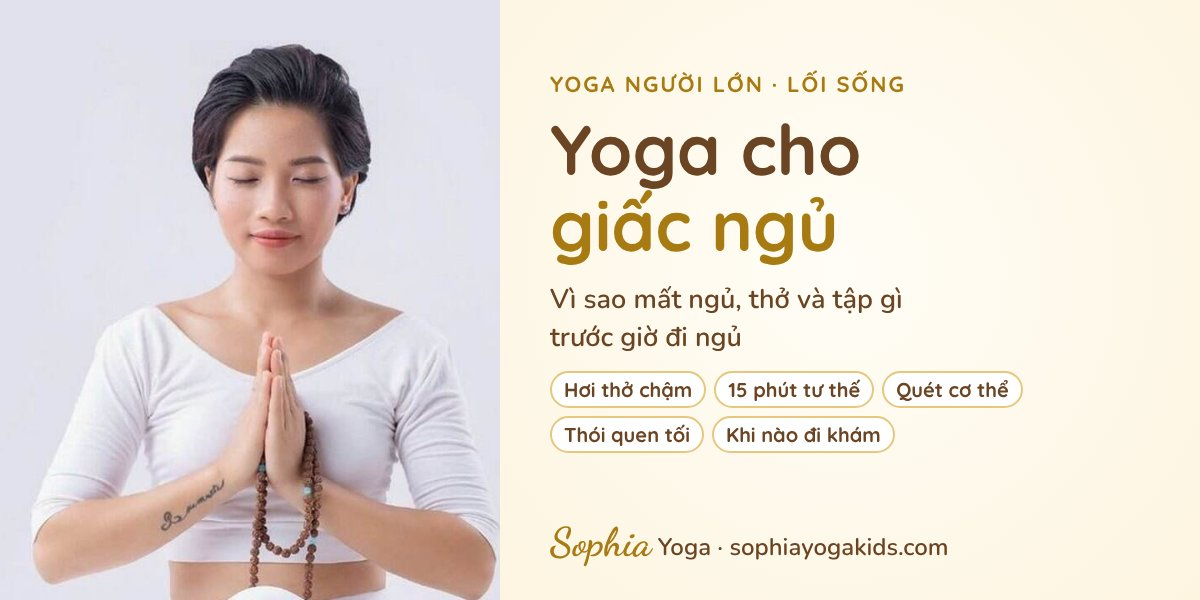
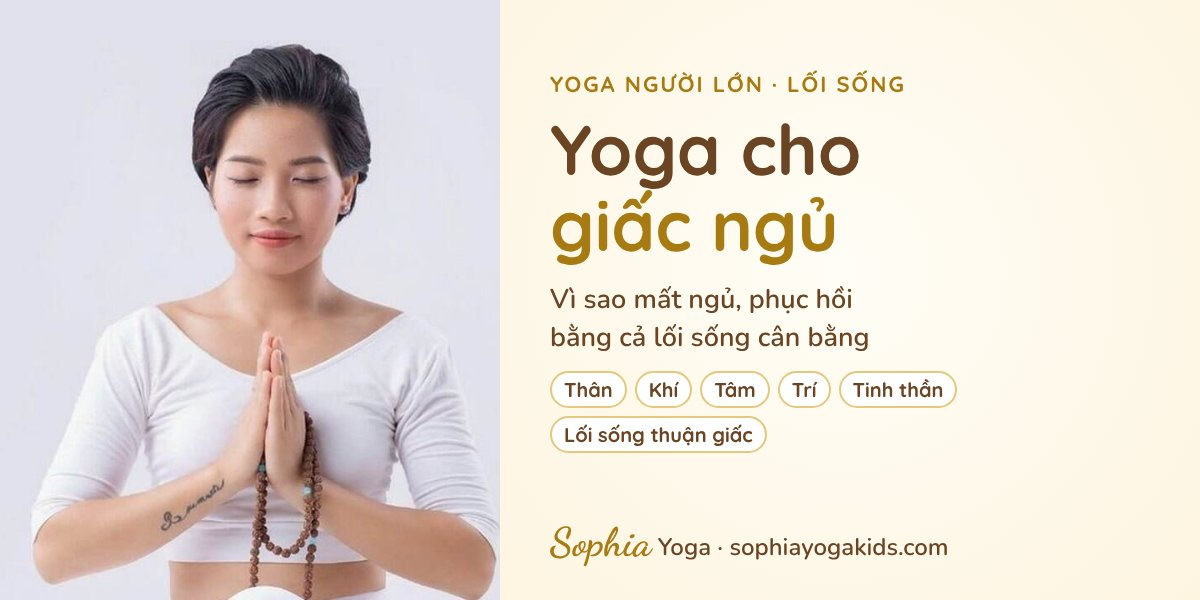
Bài giấc ngủ: phục hồi trên cả năm thể, lối sống trước tư thế
Claude-Session: https://claude.ai/code/session_01UYnZtgAMgetqcUqp8ZW1HP

Changed region(s): [[0.4625, 0.48, 0.8633, 0.78]]

diff --git a/yoga-giac-ngu/index.html b/yoga-giac-ngu/index.html
@@ -4,12 +4,12 @@
   <meta charset="UTF-8">
   <meta name="viewport" content="width=device-width, initial-scale=1.0">
   <title>Yoga cho giấc ngủ: vì sao mất ngủ, hơi thở và tư thế buổi tối, thói quen trước giờ ngủ | Sophia Yoga</title>
-  <meta name="description" content="Vì sao nằm mãi không ngủ được, hay tỉnh giữa đêm. Hơi thở chậm, chuỗi 15 phút tư thế buổi tối, thư giãn quét cơ thể, thói quen trước giờ ngủ có nghiên cứu khoa học đi kèm, và khi nào nên gặp bác sĩ.">
+  <meta name="description" content="Vì sao nằm mãi không ngủ được, hay tỉnh giữa đêm. Phục hồi giấc ngủ bằng cách đổi lối sống trên cả năm thể: thân, khí, tâm, trí, tinh thần. Hơi thở chậm, một ngày thuận giấc, chuỗi tư thế buổi tối, thư giãn quét cơ thể, và khi nào nên gặp bác sĩ.">
   <link rel="canonical" href="https://sophiayogakids.com/yoga-giac-ngu/">
   <meta property="og:type" content="article">
   <meta property="og:url" content="https://sophiayogakids.com/yoga-giac-ngu/">
   <meta property="og:title" content="Yoga cho giấc ngủ: vì sao mất ngủ, hơi thở và tư thế buổi tối, thói quen trước giờ ngủ | Sophia Yoga">
-  <meta property="og:description" content="Vì sao nằm mãi không ngủ được, hay tỉnh giữa đêm. Hơi thở chậm, chuỗi 15 phút tư thế buổi tối, thư giãn quét cơ thể, thói quen trước giờ ngủ có nghiên cứu khoa học đi kèm, và khi nào nên gặp bác sĩ.">
+  <meta property="og:description" content="Vì sao nằm mãi không ngủ được, hay tỉnh giữa đêm. Phục hồi giấc ngủ bằng cách đổi lối sống trên cả năm thể: thân, khí, tâm, trí, tinh thần. Hơi thở chậm, một ngày thuận giấc, chuỗi tư thế buổi tối, thư giãn quét cơ thể, và khi nào nên gặp bác sĩ.">
   <meta property="og:image" content="https://sophiayogakids.com/images/bai-yoga-giac-ngu.jpg">
   <meta property="og:image:width" content="1200">
   <meta property="og:image:height" content="600">
@@ -36,6 +36,10 @@
 .gn-cause h3 { margin: 0 0 4px; font-size: 1.08rem; color: #6b4423; }
 .gn-cause p { margin: 4px 0; font-size: .97rem !important; }
 .gn-cause .em { font-size: 1.7rem; line-height: 1; }
+.gn-five { display: grid; grid-template-columns: repeat(5, 1fr); gap: 10px; margin: 14px 0; }
+.gn-five div { background: #fff; border-radius: 16px; box-shadow: var(--shadow); padding: 10px 12px; border-top: 6px solid var(--c); }
+.gn-five h3 { margin: 0 0 4px; font-size: 1.1rem; color: var(--c); }
+.gn-five p { margin: 4px 0; font-size: .95rem !important; }
 .gn-check { background: #fff; border-radius: 18px; box-shadow: var(--shadow); padding: 12px 16px; margin: 14px 0; }
 .gn-check label { display: flex; gap: 10px; align-items: flex-start; padding: 6px 0; border-bottom: 1px dashed #f0e2c4; cursor: pointer; font-size: 1rem; }
 .gn-check label:last-of-type { border-bottom: 0; }
@@ -85,7 +89,8 @@
 .nt-ref { font-size: .9rem; color: var(--muted); margin: 6px 0 0 18px; padding: 0; }
 .nt-ref li { margin: 3px 0; }
 .nt-src { font-size: .95rem !important; color: var(--muted); }
-@media (max-width: 760px) { .gn-cause, .gn-tech { grid-template-columns: 1fr; } .gn-poses { grid-template-columns: 1fr; } }
+@media (max-width: 980px) { .gn-five { grid-template-columns: 1fr 1fr; } }
+@media (max-width: 760px) { .gn-five { grid-template-columns: 1fr; } .gn-cause, .gn-tech { grid-template-columns: 1fr; } .gn-poses { grid-template-columns: 1fr; } }
 @media (max-width: 640px) { .md-tall { max-width: 300px; } }
 </style>
   <link rel="icon" href="../images/favicon.png?v=3" type="image/png">
@@ -118,7 +123,7 @@
     <a href="../index.html#yoga-nguoi-lon" class="back-link">← Yoga người lớn</a>
     <p><span class="tag">Yoga người lớn · Yoga và lối sống</span></p>
     <h1>Yoga cho giấc ngủ</h1>
-    <p class="md-lead">Vì sao nằm mãi không ngủ được. Vài hơi thở, vài tư thế buổi tối, và những thói quen nhỏ giúp cơ thể nhớ lại cách nghỉ ngơi.</p>
+    <p class="md-lead">Vì sao nằm mãi không ngủ được. Và vì sao một giấc ngủ yên không đến từ một mẹo hay một tư thế, mà từ cả một cách sống cân bằng.</p>
     <div class="md-story">
       <p>Hai giờ sáng. Chị nằm nhìn trần nhà.</p>
       <p>Con đã ngủ say từ lâu. Chồng cũng ngáy đều. Chỉ có chị là tỉnh, đầu cứ chạy một danh sách: mai đóng tiền học, mai họp lúc chín giờ, cái áo đồng phục của con chưa giặt.</p>
@@ -126,17 +131,18 @@
       <p>Đến lớp, chị kể với cô bằng giọng rất mệt: “Em không biết ngủ nữa cô ạ. Người thì rã rời mà nằm xuống là tỉnh như sáo.”</p>
       <p>Câu “không biết ngủ nữa” làm cô nhớ mãi. Vì ngủ vốn là việc cơ thể tự biết. Chỉ là có lúc nó quên đường về.</p>
     </div>
-    <p>Bài này không có phép màu. Chỉ có những điều nhỏ, đi cùng nhau: hiểu vì sao mình khó ngủ, biết thở chậm lại, có một chuỗi tư thế nhẹ cho buổi tối, và sắp xếp lại vài thói quen. Có cả phần quan trọng nhất: khi nào nên đi gặp bác sĩ, thay vì cố tự chịu.</p>
+    <p>Giấc ngủ là tấm gương của cả một ngày. Mình ăn thế nào, thở thế nào, nghĩ gì, mang theo cảm xúc gì lên giường, tất cả đều hiện ra trong đêm. Vì thế bài này không đưa ra một bài tập “chữa mất ngủ”. Sophia muốn cùng nhìn lại lối sống trên cả năm thể: thân, khí, tâm, trí và tinh thần. Hơi thở và tư thế buổi tối là một phần trong đó, một phần quý, nhưng chỉ là một phần. Cuối bài có phần quan trọng không kém: khi nào nên đi gặp bác sĩ, thay vì cố tự chịu.</p>
 
     <figure class="md-photo md-tall"><img src="../images/sophia-thien-chan-dung.jpg" alt="Cô Sophia ngồi thiền, hai tay đặt trên gối, mắt nhắm, gương mặt bình yên" width="720" height="720"><figcaption>Giấc ngủ không đến khi mình đuổi theo nó. Nó đến khi mình dừng lại.</figcaption></figure>
 
     <ul class="md-toc">
       <li><a href="#tu-kiem-tra">Tự kiểm tra</a></li>
       <li><a href="#vi-sao">Vì sao mất ngủ</a></li>
-      <li><a href="#hoi-tho">Hơi thở buổi tối</a></li>
-      <li><a href="#tu-the">15 phút tư thế</a></li>
+      <li><a href="#nam-the">Phục hồi trên năm thể</a></li>
+      <li><a href="#hoi-tho">Hơi thở</a></li>
+      <li><a href="#thoi-quen">Một ngày thuận giấc</a></li>
+      <li><a href="#tu-the">Tư thế buổi tối</a></li>
       <li><a href="#quet-co-the">Quét cơ thể</a></li>
-      <li><a href="#thoi-quen">Thói quen trước giờ ngủ</a></li>
       <li><a href="#tinh-giua-dem">Khi tỉnh giữa đêm</a></li>
       <li><a href="#bac-si">Khi nào gặp bác sĩ</a></li>
     </ul>
@@ -155,7 +161,19 @@
     <p>Có một vòng lặp rất hay gặp. Vài đêm ngủ kém, mình bắt đầu sợ đêm nay cũng thế. Nằm xuống là canh giấc ngủ, xem đồng hồ, tính “còn có năm tiếng”. Chính sự canh chừng đó lại làm tỉnh thêm. Sophia nghĩ phần lớn công việc của yoga buổi tối là gỡ cái vòng này ra, nhẹ thôi, không ép.</p>
     <p>Theo cái nhìn của yoga, cơ thể cũng có nhịp. Buổi sáng hướng ra ngoài, buổi tối hướng vào trong. Về tập theo giờ trong ngày, có bài <a href="../tap-yoga-theo-mua/">Tập yoga theo mùa và theo giờ</a>. Còn căng thẳng kéo dài ảnh hưởng đến tuyến thượng thận và cortisol thế nào, có trong bài <a href="../noi-tiet-yoga/">Các tuyến nội tiết và yoga</a>.</p>
 
-    <h2 id="hoi-tho">Hơi thở buổi tối: thở ra dài hơn hít vào</h2>
+    <h2 id="nam-the">Phục hồi giấc ngủ trên cả năm thể</h2>
+    <p>Theo yoga, con người không chỉ là cái thân. Có thân, có khí, có tâm, có trí, và có phần tinh thần sâu nhất bên trong (bài <a href="../nam-the-con-nguoi/">Năm thể của con người</a> kể kỹ hơn). Năm lớp này nối với nhau. Một lớp mệt, các lớp khác cũng chao theo. Giấc ngủ cũng vậy: hiếm khi chỉ lệch ở một chỗ.</p>
+    <p>Nên khi phục hồi giấc ngủ, Sophia không nhìn một chỗ. Cô nhìn cả năm.</p>
+    <div class="gn-five">
+      <div style="--c:#a87a12"><h3>🌿 Thân</h3><p>Ban ngày vận động đủ, ra nắng buổi sáng. Ăn tối sớm và nhẹ. Bớt cà phê, rượu. Buổi tối vài tư thế chậm để cơ thể nhả ra những gồng giữ của cả ngày.</p></div>
+      <div style="--c:#4e7a3f"><h3>🌬 Khí</h3><p>Hơi thở chậm, thở bằng bụng, không chỉ lúc đi ngủ mà rải rác trong ngày. Người thở gấp cả ngày khó mà tối đến tự nhiên thở sâu được.</p></div>
+      <div style="--c:#b4592f"><h3>💗 Tâm</h3><p>Cảm xúc chưa được gọi tên hay mang lên giường cùng mình. Một câu xin lỗi chưa nói, một nỗi buồn chưa khóc. Viết ra, chia sẻ, hoặc chỉ thừa nhận “hôm nay mình buồn” đã nhẹ đi nhiều.</p></div>
+      <div style="--c:#3f51b5"><h3>🧠 Trí</h3><p>Cách nghĩ cũng giữ mình thức. “Phải ngủ đủ 8 tiếng”, “mai mà mệt thì hỏng hết”. Đổi suy nghĩ thành “nằm nghỉ cũng là nghỉ” làm áp lực lỏng ra. Bớt ôm việc, bớt cầu toàn, biết đặt giới hạn cho ngày làm việc.</p></div>
+      <div style="--c:#7b5ea7"><h3>✨ Tinh thần</h3><p>Sống chậm hơn một chút. Một lời biết ơn cuối ngày. Một việc tử tế. Cảm giác được kết nối với người thân, với điều mình tin. Khi bên trong có chỗ dựa, đêm tối bớt đáng sợ.</p></div>
+    </div>
+    <p>Không cần đổi cả năm cùng lúc. Chỉ cần biết rằng tư thế, hơi thở, bữa ăn, suy nghĩ, cảm xúc đều cùng góp vào một giấc ngủ. Đổi dần từng chút, đều đặn, cơ thể sẽ tự tìm lại sự cân bằng của nó.</p>
+
+    <h2 id="hoi-tho">Thể khí: thở ra dài hơn hít vào</h2>
     <p>Hơi thở là cái nút hiếm hoi mình tự bấm được trên hệ thần kinh. Khi thở chậm, nhất là khi hơi thở ra kéo dài hơn hơi hít vào, nhịp tim có xu hướng chậm theo và nhánh phó giao cảm được mời lên tiếng.</p>
     <div class="gn-sci"><b>📚 Nghiên cứu</b><p>Một tổng quan hệ thống về thở chậm (dưới khoảng 10 nhịp mỗi phút) ghi nhận thở chậm đi cùng tăng biến thiên nhịp tim, tăng hoạt động phó giao cảm, và cảm giác thư giãn, bớt lo âu (Zaccaro và cộng sự, <i>Frontiers in Human Neuroscience</i>, 2018). Các nghiên cứu còn nhỏ và khác nhau về cách làm, nên cô xem đây là một hướng đi tốt chứ không phải điều đã chắc chắn tuyệt đối.</p></div>
     <p>Thử ngay dưới đây. Hít vào 4 nhịp, thở ra 6 nhịp. Theo quả bóng vàng: bóng lớn lên khi hít, nhỏ lại khi thở ra. Hít bằng mũi. Thở ra bằng mũi hoặc qua môi hơi khép, như thổi nhẹ một ngọn nến mà không muốn nó tắt.</p>
@@ -177,8 +195,20 @@
     </div>
     <p>Buổi tối thì cô tránh các phép thở làm nóng và tỉnh người, như <a href="../kapalabhati/">Kapalabhati</a> hay thở nhanh, thở mạnh. Những phép thở đó hợp với buổi sáng hơn. Muốn tìm hiểu thêm có bài <a href="../cac-phep-tho/">Các phép thở trong Yoga</a> và <a href="../hoi-tho-bon-thi/">Hơi thở bốn thì</a>. Ai đang mang thai, có bệnh tim mạch hoặc cao huyết áp thì thở nhẹ nhàng, không nín thở lâu.</p>
 
-    <h2 id="tu-the">15 phút tư thế trước giờ ngủ</h2>
-    <p>Chuỗi này chậm, thấp, gần mặt đất. Không có thế nào để “đẹp”. Mỗi thế là một cách nói với cơ thể: hôm nay đủ rồi.</p>
+    <h2 id="thoi-quen">Một ngày thuận giấc, từ sáng đến tối</h2>
+    <p>Giấc ngủ buổi tối được chuẩn bị từ buổi sáng. Đây là phần cô thấy quan trọng nhất của cả bài, vì nó là lối sống chứ không phải một bài tập. Dưới đây là một ngày “thuận giấc” mà Sophia hay gợi ý. Không cần làm hết ngay. Chọn hai ba điều dễ nhất trước, giữ cho đều, rồi thêm dần.</p>
+    <ul class="gn-day"><li><b>Buổi sáng</b>Dậy cùng một giờ, kể cả cuối tuần. Ra ngoài ánh sáng tự nhiên mười mấy phút trong giờ đầu sau khi dậy. Đồng hồ sinh học được “đặt lại” từ buổi sáng.</li><li><b>Sau 14 giờ</b>Thôi cà phê, trà đặc, nước tăng lực. Ai nhạy cảm với caffeine thì dừng sớm hơn nữa.</li><li><b>Buổi chiều</b>Vận động, đi bộ, tập yoga có sức. Những bài mạnh, nóng người nên xong trước bữa tối.</li><li><b>2 đến 3 giờ trước ngủ</b>Ăn tối xong, bữa vừa phải. Hạn chế rượu bia. Uống nước đủ từ ban ngày để tối không phải uống nhiều.</li><li><b>1 đến 2 giờ trước ngủ</b>Tắm nước ấm. Khi ra khỏi phòng tắm, nhiệt độ cơ thể hạ dần, đó là một tín hiệu buồn ngủ tự nhiên.</li><li><b>1 giờ trước ngủ</b>Tắt bớt đèn trắng, bật đèn vàng dịu. Cất điện thoại xa giường. Nếu cần, để chế độ không làm phiền.</li><li><b>30 phút trước ngủ</b>Viết ra giấy vài việc của ngày mai. Rồi chuỗi tư thế 15 phút và vài phút thở chậm.</li><li><b>Lên giường</b>Đi ngủ khi thấy buồn ngủ, không phải khi “đến giờ phải ngủ”. Giường để ngủ, không để làm việc hay lướt mạng.</li></ul>
+    <div class="gn-sci"><b>📚 Vài nghiên cứu đằng sau những gợi ý trên</b>
+      <p><b>Cà phê:</b> uống caffeine cả khi 6 tiếng trước giờ ngủ vẫn làm giảm thời gian ngủ khoảng một tiếng theo đo đạc, dù người uống không tự thấy (Drake và cộng sự, <i>Journal of Clinical Sleep Medicine</i>, 2013).</p>
+      <p><b>Màn hình:</b> đọc trên máy tính bảng phát sáng trước khi ngủ làm vào giấc lâu hơn, melatonin tiết muộn hơn và sáng hôm sau kém tỉnh táo hơn so với đọc sách giấy (Chang và cộng sự, <i>PNAS</i>, 2015).</p>
+      <p><b>Tắm ấm:</b> tổng hợp các nghiên cứu cho thấy tắm hoặc ngâm nước ấm khoảng 1 đến 2 tiếng trước giờ ngủ giúp vào giấc nhanh hơn một chút (Haghayegh và cộng sự, <i>Sleep Medicine Reviews</i>, 2019).</p>
+      <p><b>Viết ra giấy:</b> người viết danh sách việc cần làm ngày mai trong 5 phút trước khi ngủ vào giấc nhanh hơn người viết về những việc đã làm xong (Scullin và cộng sự, <i>Journal of Experimental Psychology: General</i>, 2018).</p>
+      <p><b>Rượu:</b> rượu làm dễ thiếp đi nhưng làm giấc ngủ nửa sau đêm bị xáo trộn (Ebrahim và cộng sự, <i>Alcoholism: Clinical and Experimental Research</i>, 2013).</p>
+    </div>
+    <p>Trong cuốn <i>Why We Sleep</i> (2017), nhà khoa học giấc ngủ Matthew Walker nhấn mạnh một điều rất giản dị: đi ngủ và thức dậy vào cùng một giờ mỗi ngày, kể cả cuối tuần. Cô thấy đây là thói quen khó nhất. Và cũng đáng nhất.</p>
+
+    <h2 id="tu-the">Tư thế buổi tối: 15 phút khép lại một ngày</h2>
+    <p>Chuỗi tư thế này không phải lời giải cho mất ngủ. Nó là một nghi thức nhỏ cuối ngày, đi cùng những thay đổi lối sống ở trên. Chuỗi chậm, thấp, gần mặt đất. Không có thế nào để “đẹp”. Mỗi thế là một cách nói với cơ thể: hôm nay đủ rồi.</p>
     <p>Cô thường tập trên thảm cạnh giường, ánh đèn vàng, có một hai chiếc gối và một tấm chăn mỏng. Mặc đồ ngủ cũng được. Giữ mỗi thế với hơi thở chậm, thở ra dài. Thấy đau, nhói, tê thì dừng thế đó.</p>
     <div class="gn-poses">
       <div><svg viewBox="0 0 120 76" class="gn-pose" aria-hidden="true"><line x1="4" y1="70" x2="116" y2="70" stroke="#e6c77d" stroke-width="2"/><g stroke="#6b4423" stroke-width="5" stroke-linecap="round" stroke-linejoin="round" fill="none"><path d="M60 33 L60 56"/><path d="M60 56 L32 62 L56 66"/><path d="M60 56 L88 62 L64 66"/><path d="M60 38 L50 52 L57 64"/><path d="M60 38 L70 52 L63 64"/></g><circle cx="60" cy="22" r="7" fill="#f1e2c9" stroke="#6b4423" stroke-width="2.5"/></svg>
@@ -249,18 +279,6 @@
     </div>
     <p>Nhiều học viên của cô ngủ thiếp đi ngay đoạn vai hay đoạn tay. Có người lại tỉnh táo đến hết. Cả hai đều ổn. Mục đích không phải là ngủ ngay lập tức, mà là cho cơ thể một lần được thả ra trọn vẹn trước khi đêm bắt đầu.</p>
 
-    <h2 id="thoi-quen">Thói quen trước giờ ngủ</h2>
-    <p>Giấc ngủ buổi tối được chuẩn bị từ buổi sáng. Dưới đây là một ngày “thuận giấc” mà Sophia hay gợi ý. Không cần làm hết. Chọn hai ba điều dễ nhất trước.</p>
-    <ul class="gn-day"><li><b>Buổi sáng</b>Dậy cùng một giờ, kể cả cuối tuần. Ra ngoài ánh sáng tự nhiên mười mấy phút trong giờ đầu sau khi dậy. Đồng hồ sinh học được “đặt lại” từ buổi sáng.</li><li><b>Sau 14 giờ</b>Thôi cà phê, trà đặc, nước tăng lực. Ai nhạy cảm với caffeine thì dừng sớm hơn nữa.</li><li><b>Buổi chiều</b>Vận động, đi bộ, tập yoga có sức. Những bài mạnh, nóng người nên xong trước bữa tối.</li><li><b>2 đến 3 giờ trước ngủ</b>Ăn tối xong, bữa vừa phải. Hạn chế rượu bia. Uống nước đủ từ ban ngày để tối không phải uống nhiều.</li><li><b>1 đến 2 giờ trước ngủ</b>Tắm nước ấm. Khi ra khỏi phòng tắm, nhiệt độ cơ thể hạ dần, đó là một tín hiệu buồn ngủ tự nhiên.</li><li><b>1 giờ trước ngủ</b>Tắt bớt đèn trắng, bật đèn vàng dịu. Cất điện thoại xa giường. Nếu cần, để chế độ không làm phiền.</li><li><b>30 phút trước ngủ</b>Viết ra giấy vài việc của ngày mai. Rồi chuỗi tư thế 15 phút và vài phút thở chậm.</li><li><b>Lên giường</b>Đi ngủ khi thấy buồn ngủ, không phải khi “đến giờ phải ngủ”. Giường để ngủ, không để làm việc hay lướt mạng.</li></ul>
-    <div class="gn-sci"><b>📚 Vài nghiên cứu đằng sau những gợi ý trên</b>
-      <p><b>Cà phê:</b> uống caffeine cả khi 6 tiếng trước giờ ngủ vẫn làm giảm thời gian ngủ khoảng một tiếng theo đo đạc, dù người uống không tự thấy (Drake và cộng sự, <i>Journal of Clinical Sleep Medicine</i>, 2013).</p>
-      <p><b>Màn hình:</b> đọc trên máy tính bảng phát sáng trước khi ngủ làm vào giấc lâu hơn, melatonin tiết muộn hơn và sáng hôm sau kém tỉnh táo hơn so với đọc sách giấy (Chang và cộng sự, <i>PNAS</i>, 2015).</p>
-      <p><b>Tắm ấm:</b> tổng hợp các nghiên cứu cho thấy tắm hoặc ngâm nước ấm khoảng 1 đến 2 tiếng trước giờ ngủ giúp vào giấc nhanh hơn một chút (Haghayegh và cộng sự, <i>Sleep Medicine Reviews</i>, 2019).</p>
-      <p><b>Viết ra giấy:</b> người viết danh sách việc cần làm ngày mai trong 5 phút trước khi ngủ vào giấc nhanh hơn người viết về những việc đã làm xong (Scullin và cộng sự, <i>Journal of Experimental Psychology: General</i>, 2018).</p>
-      <p><b>Rượu:</b> rượu làm dễ thiếp đi nhưng làm giấc ngủ nửa sau đêm bị xáo trộn (Ebrahim và cộng sự, <i>Alcoholism: Clinical and Experimental Research</i>, 2013).</p>
-    </div>
-    <p>Trong cuốn <i>Why We Sleep</i> (2017), nhà khoa học giấc ngủ Matthew Walker nhấn mạnh một điều rất giản dị: đi ngủ và thức dậy vào cùng một giờ mỗi ngày, kể cả cuối tuần. Cô thấy đây là thói quen khó nhất. Và cũng đáng nhất.</p>
-
     <h2 id="tinh-giua-dem">Khi nằm mãi không ngủ, hay tỉnh giữa đêm</h2>
     <div class="gn-20">
       <p><b>Đừng nhìn đồng hồ.</b> Quay mặt đồng hồ đi, để điện thoại xa. Biết mấy giờ chỉ làm đầu óc bắt đầu tính toán.</p>
@@ -268,7 +286,7 @@
       <p><b>Khoảng 20 phút vẫn tỉnh, thì ra khỏi giường.</b> Ra ngồi chỗ khác, đèn mờ, làm việc gì nhẹ và hơi chán: gấp quần áo, đọc vài trang sách giấy. Buồn ngủ thì quay lại giường. Cách này có tên là kiểm soát kích thích, một phần trong liệu pháp nhận thức hành vi cho mất ngủ, để giường lại gắn với ngủ chứ không gắn với trằn trọc.</p>
       <p><b>Sáng hôm sau vẫn dậy đúng giờ.</b> Ngủ bù buổi sáng làm đêm hôm sau khó ngủ hơn. Nếu quá mệt, một giấc trưa ngắn dưới 30 phút, trước 3 giờ chiều.</p>
     </div>
-    <p>Chị ở đầu bài sau ba tuần nhắn cho cô. Vẫn có đêm tỉnh dậy. Nhưng chị không cầm điện thoại nữa, chỉ nằm thở và đếm. “Có hôm em ngủ lại lúc nào không biết cô ạ.” Cô đọc tin nhắn ấy và mỉm cười rất lâu.</p>
+    <p>Chị ở đầu bài không đổi tất cả trong một tuần. Chị bắt đầu bằng việc để điện thoại ngoài phòng khách, đi bộ mười lăm phút sau giờ làm, và tối nào cũng viết ba dòng: việc mai, một điều làm mình buồn, một điều biết ơn. Ba tuần sau chị nhắn cho cô. Vẫn có đêm tỉnh dậy. Nhưng chị không cầm điện thoại nữa, chỉ nằm thở và đếm. “Có hôm em ngủ lại lúc nào không biết cô ạ.” Cô đọc tin nhắn ấy và mỉm cười rất lâu.</p>
 
     <h2 id="bac-si">Khi nào nên gặp bác sĩ</h2>
     <div class="nt-warn">
@@ -288,6 +306,7 @@
 
     <h2>Lời nhỏ cuối bài</h2>
     <p>Cô không nghĩ có ai “không biết ngủ”. Chỉ là cả ngày mình đi nhanh quá. Đến tối, cơ thể chưa kịp theo.</p>
+    <p>Một giấc ngủ yên không nằm trong một tư thế. Nó nằm trong cách mình sống cả ngày: ăn, thở, nghĩ, thương, buông.</p>
     <p>Đèn vàng. Một tấm chăn. Vài hơi thở ra thật dài.</p>
     <p>Rồi để đêm làm phần việc của nó.</p>
 

diff --git a/index.html b/index.html
@@ -549,7 +549,7 @@
               <div class="course-icon bg-blue">🌙</div>
               <div>
                 <h3>Yoga cho giấc ngủ</h3>
-                <p><b>Vì sao nằm mãi không ngủ được, hay tỉnh giữa đêm:</b> hơi thở chậm, chuỗi 15 phút tư thế buổi tối, thư giãn quét cơ thể, thói quen trước giờ ngủ có nghiên cứu đi kèm, và khi nào nên gặp bác sĩ.</p>
+                <p><b>Vì sao nằm mãi không ngủ được, hay tỉnh giữa đêm:</b> phục hồi giấc ngủ bằng cả lối sống cân bằng trên năm thể (thân, khí, tâm, trí, tinh thần). Hơi thở chậm, một ngày thuận giấc, tư thế buổi tối, quét cơ thể, và khi nào nên gặp bác sĩ.</p>
                 <a href="yoga-giac-ngu/" class="btn btn-small btn-outline">📖 Đọc bài</a>
               </div>
             </div>
